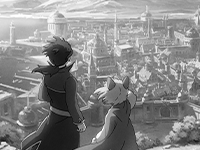
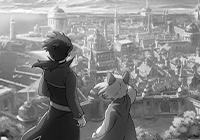
handle camera position + parallax

diff --git a/src/components/Projects3d.vue b/src/components/Projects3d.vue
@@ -40,23 +40,27 @@
 
   // Scene settings with defaults
   const settings = {
+    // Camera
     viewpoint: new THREE.Vector3(0, 0, 2),
-    parallaxMaxRotation: .04,
-    parallaxMaxTranslation: .04,
     rotationY: -.3,
     rotationZ: 0,
     fov: 70,
+    // Camera parallax
+    parallaxOffset: .05,
+    parallaxDuration: 1,
+    parallaxEase: "power2.out",
+    // Debug
     enableGui: false,
     enableOrbit: false,
     enableAxesHelper: false,
     // Images
-    image3dToPxRatio: .01,
+    image3dToPxRatio: .008,
     imageParticleColor: 0xffeeaa,
-    imageParticleSize: 10,
-    imageParticleMinZ: 0,
-    imageParticleMaxZ: 1.5,
+    imageParticleSize: 12,
+    imageParticleMinZ: -1.2,
+    imageParticleMaxZ: 1.2,
     imageRotationOffset: .4, // Max 8 projects
-    imageRotationRadius: 4.5,
+    imageRotationRadius: 4.8,
     // Animations
     navTransitionDuration: 2,
     navTransitionEase: "power1.inOut",
@@ -69,20 +73,20 @@
 
   // Navigation
   const scrollPosition = ref(0)
-  const mousePosition = useMousePosition()
+  const mousePosition = useMousePosition(handleParallax)
 
   // Usefull threeJS objects
   const tjs = {
+    isReady: false,
     clock: new THREE.Clock(),
     scene: null,
     renderer: null,
     camera: null,
+    // To separate position and parallax effect
+    cameraGroup: null, 
     orbitControls: null,
     axesHelper: null,
     gui: null,
-    // Camera position/rotation (offset can be added from mouse position in refresh())
-    cameraBaseRotation: new THREE.Vector3(),
-    cameraBasePosition: new THREE.Vector3(),
   }
   const sizes = useResize(threeCanvas, (w, h) => {
     tjs.camera.aspect = w / h
@@ -125,10 +129,14 @@
     })
 
     // Camera
+    // cameraGroup handles the position in the world
+    // camera itself moves inside to handle parallax effect
+    tjs.cameraGroup = new THREE.Group()
+    tjs.cameraGroup.position.copy(settings.viewpoint)
+
     tjs.camera = new THREE.PerspectiveCamera(settings.fov)
-    tjs.camera.position.copy(settings.viewpoint)
-    tjs.camera.rotation.z = - Math.PI * 2 / 24
-    tjs.scene.add(tjs.camera)
+    tjs.cameraGroup.add(tjs.camera)
+    tjs.scene.add(tjs.cameraGroup)
 
     // Orbit Controls
     tjs.orbitControls = new OrbitControls(tjs.camera, canvas)
@@ -142,15 +150,12 @@
     // For each image, construct a geometry and a mesh
     props.projects.forEach((project, i) => {
       // Create object
-      project.mesh = imageToMesh(project.imageObject)
-      // project.mesh.position.y = -i * settings.imageMargin
-      // project.mesh.rotation.y = i * settings.imageRotationOffset
-      
       let angle = i * -settings.imageRotationOffset
-      project.mesh.rotation.x = angle
-      project.mesh.position.y = Math.sin(angle) * settings.imageRotationRadius
-      project.mesh.position.z = (-Math.cos(angle) + 1) * settings.imageRotationRadius
-
+      let mesh = imageToMesh(project.imageObject)      
+      mesh.rotation.x = angle
+      mesh.position.y = Math.sin(angle) * settings.imageRotationRadius
+      mesh.position.z = (-Math.cos(angle) + 1) * settings.imageRotationRadius
+      project.mesh = mesh
       tjs.scene.add(project.mesh)
 
       // Camera target for this project
@@ -163,6 +168,9 @@
     if(settings.enableGui) {
       setupGui()
     }
+
+    // Flag as ready
+    tjs.isReady = true
 
     // Scroll
     initScrollTrigger()
@@ -189,28 +197,30 @@
         scrub: .8,
       }
     })
-    // Set timeline stops at each project viewpoint
     props.projects.forEach((project, i) => {
       let {x, y, z} = project.cameraTargetPosition
       if(i == 0) {
+        console.log(project.cameraTargetPosition, tjs.cameraGroup.position.x)
         // Set starting position on first project
-        tjs.cameraBasePosition = new THREE.Vector3(x, y, z)
-        tjs.cameraBaseRotation = new THREE.Vector3(project.cameraTargetRotation, 0, 0)
+        tjs.cameraGroup.position.x = x
+        tjs.cameraGroup.position.y = y
+        tjs.cameraGroup.position.z = z
+        tjs.cameraGroup.rotation.x = project.cameraTargetRotation
+        tjs.cameraGroup.rotation.y = settings.rotationY
+        tjs.cameraGroup.rotation.z = settings.rotationZ
       } else {
         // Set timeline stops
         // Position
-        timeline.to(tjs.cameraBasePosition, {
+        timeline.to(tjs.cameraGroup.position, {
           ease: settings.navTransitionEase,
           x: x,
           y: y,
           z: z
         })
         // Rotation
-        timeline.to(tjs.cameraBaseRotation, {
+        timeline.to(tjs.cameraGroup.rotation, {
           ease: settings.navTransitionEase,
-          x: project.cameraTargetRotation,
-          y: 0,
-          z: 0,
+          x: project.cameraTargetRotation
         }, "<")
       }
       if(i == 0) return
@@ -238,6 +248,33 @@
         x: 0,
         y: project.cameraTargetRotation,
         z: 0,
+    })
+  }
+
+  // ===================================================
+  // Animate camera inside cameraGroup 
+  // according to mouse position
+  // ===================================================
+  function handleParallax(x, y, event) {
+    if(!tjs.isReady) {
+      return
+    }
+    let offsetX = (x / window.innerWidth - .5)
+    let offsetY = -(y / window.innerHeight - .5)
+
+    gsap.killTweensOf(tjs.camera.position)
+    gsap.killTweensOf(tjs.camera.rotation)
+    gsap.to(tjs.camera.position, {
+        duration: settings.parallaxDuration,
+        ease: settings.parallaxEase,
+        x: offsetX * settings.parallaxOffset / 2,
+        y: offsetY * settings.parallaxOffset / 2,
+    })
+    gsap.to(tjs.camera.rotation, {
+        duration: settings.parallaxDuration,
+        ease: settings.parallaxEase,
+        x: -offsetY * settings.parallaxOffset,
+        y: offsetX * settings.parallaxOffset,
     })
   }
 
@@ -343,18 +380,6 @@
   function refresh() {
     let t = tjs.clock.getElapsedTime()
 
-    // Camera (calculate from base and offset)
-    // console.log(mousePosition.x - window.innerWidth / 2)
-    let offsetX = -(mousePosition.y.value / window.innerHeight - .5) * settings.parallaxMaxRotation
-    let offsetY = -(mousePosition.x.value / window.innerWidth - .5) * settings.parallaxMaxRotation
-    // console.log(settings.parallaxMaxOffset)
-    tjs.camera.rotation.x = tjs.cameraBaseRotation.x + offsetX
-    tjs.camera.rotation.y = tjs.cameraBaseRotation.y + offsetY + settings.rotationY
-    tjs.camera.rotation.z = tjs.cameraBaseRotation.z + settings.rotationZ
-    tjs.camera.position.x = tjs.cameraBasePosition.x
-    tjs.camera.position.y = tjs.cameraBasePosition.y
-    tjs.camera.position.z = tjs.cameraBasePosition.z
-
     // Update controls
     if(settings.enableOrbit) {
         tjs.orbitControls.update()
@@ -370,13 +395,15 @@
     window.requestAnimationFrame(refresh)
   }
 
+  // ===================================================
+  // Setup dat.gui
+  // ===================================================
   function setupGui() {
     tjs.gui = new dat.GUI()
   }
 </script>
 
 <template>
-  <h1>Position: {{ mousePosition.x }} : {{ mousePosition.y }}</h1>
   <canvas ref="threeCanvas"></canvas>
 </template>
 

diff --git a/src/composables/mouseposition.js b/src/composables/mouseposition.js
@@ -1,13 +1,17 @@
 import { ref, onMounted, onUnmounted } from 'vue'
 import { useEventListener } from './event'
 
-export function useMousePosition() {
+export function useMousePosition(callback = null) {
   const x = ref(0)
   const y = ref(0)
 
   function onMousemove(event) {
     x.value = event.clientX
     y.value = event.clientY
+
+    if(callback !== null) {
+      callback(x.value, y.value, event)
+    }
   }
 
   useEventListener(window, "mousemove", onMousemove)

diff --git a/src/views/HomeView.vue b/src/views/HomeView.vue
@@ -9,7 +9,7 @@
   const sceneSettings = {
     enableGui: true,
     enableOrbit: false,
-    enableAxesHelper: !false,    
+    enableAxesHelper: false,    
   }
 
   // ===================================================
@@ -78,7 +78,8 @@
     pointer-events: none;
   }
   section.project {
-    height: 80vh;
+    height: 100vh;
+    padding-left: 33vw;
     text-align: center;
     /* border: 2px solid red; */
     display: flex;
